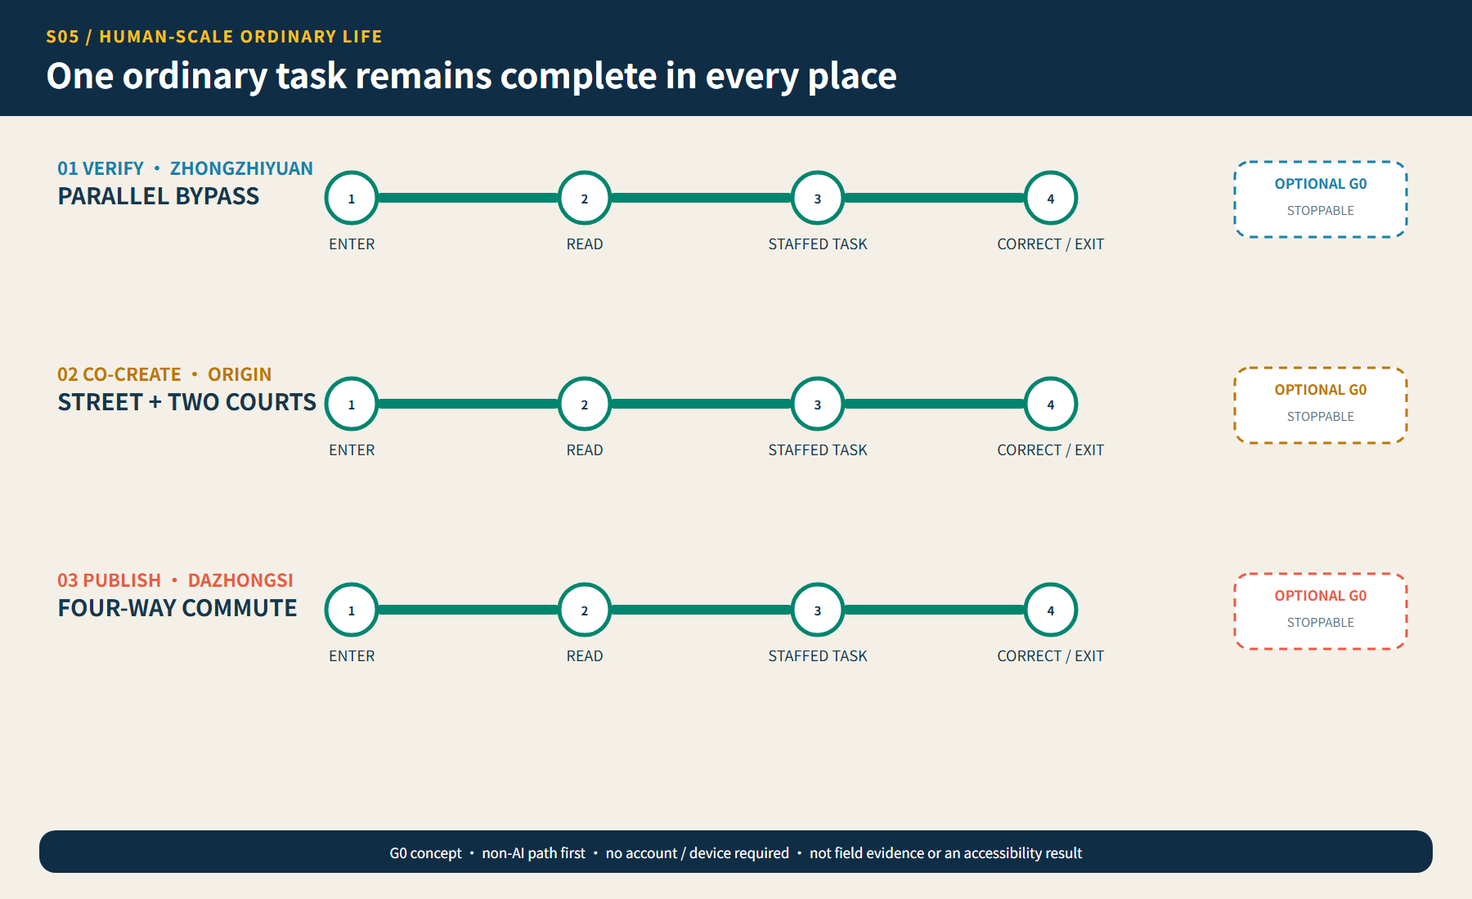
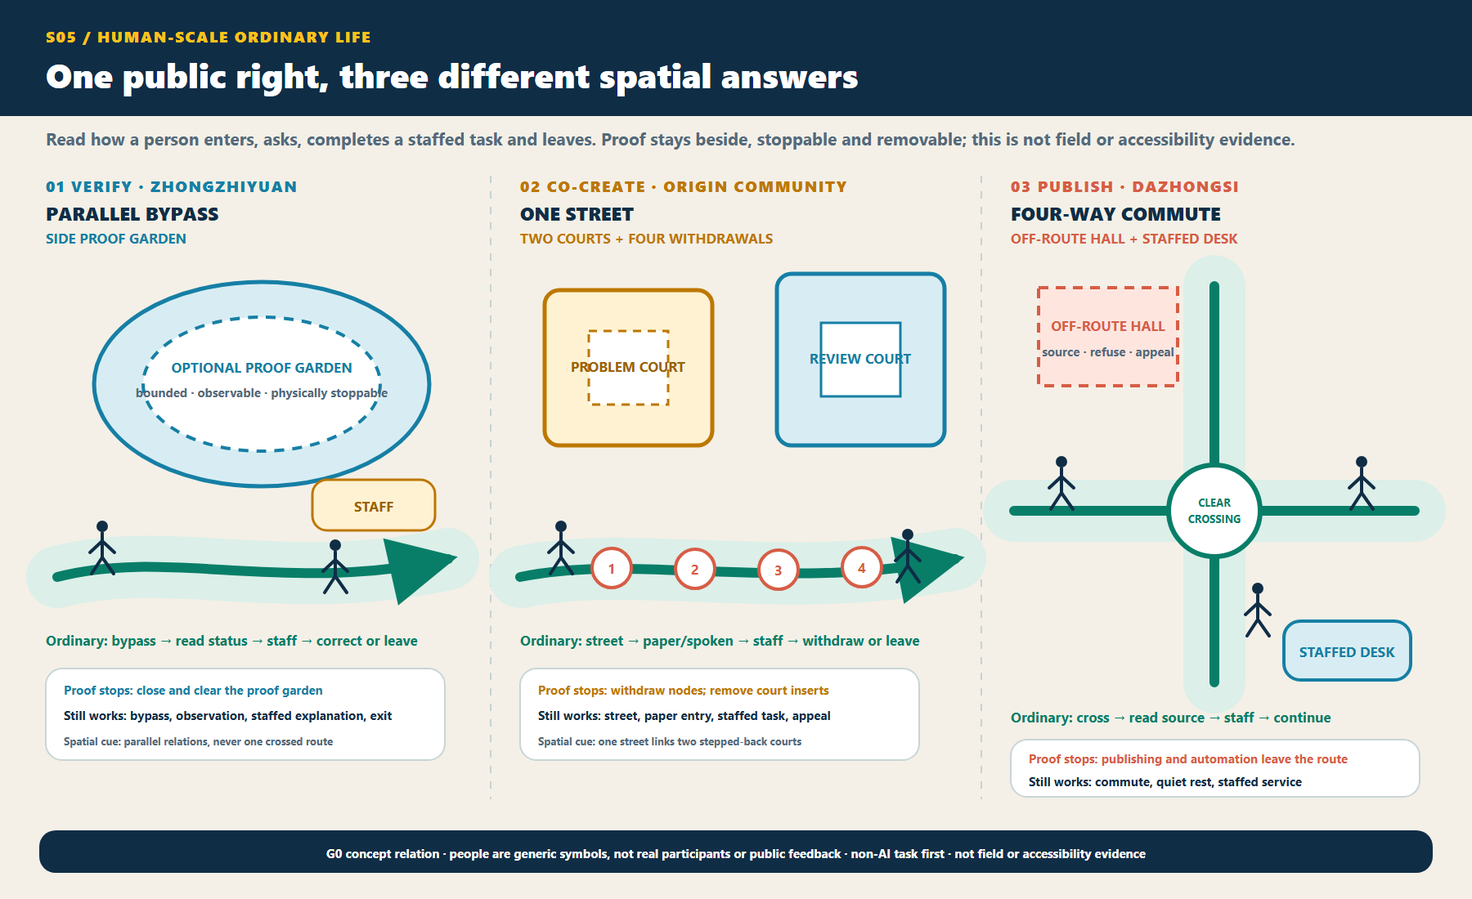
feat(submission): rebuild human-scale review surfaces

Changed region(s): [[0.0311, 0.0309, 0.9644, 0.8345], [0.2178, 0.9273, 0.7778, 0.9582], [0.6844, 0.8345, 0.9022, 0.8964]]

diff --git a/submissions/xyh202131/jingzhang-ai-pilgrimage-belt/visual/index.en.html b/submissions/xyh202131/jingzhang-ai-pilgrimage-belt/visual/index.en.html
@@ -2,22 +2,22 @@
 <html lang="en"><head><meta charset="utf-8"><meta name="viewport" content="width=device-width,initial-scale=1"><title>Twin-Track Jing-Zhang | Review edition</title>
 <style>
 :root{--navy:#102d46;--ink:#17364d;--teal:#00856f;--blue:#1681aa;--amber:#bd7700;--coral:#e85c42;--paper:#f4f0e7;--muted:#647786}
-*{box-sizing:border-box}html{scroll-behavior:smooth}body{margin:0;background:var(--paper);color:var(--ink);font-family:"JZ Offline CJK","Noto Sans SC","Noto Sans CJK SC","Source Han Sans SC",system-ui,sans-serif;line-height:1.55}
-a{color:inherit}.hero{min-height:76vh;padding:clamp(32px,7vw,110px);display:grid;align-content:center;background:var(--navy);color:#fff;position:relative;overflow:hidden}
+*{box-sizing:border-box}html{scroll-behavior:smooth;max-width:100%;overflow-x:hidden}body{margin:0;max-width:100%;overflow-x:hidden;background:var(--paper);color:var(--ink);font-family:"JZ Offline CJK","Noto Sans SC","Noto Sans CJK SC","Source Han Sans SC",system-ui,sans-serif;line-height:1.55}
+a{color:inherit}.skip{position:absolute;left:16px;top:-80px;z-index:30;background:#fff;color:var(--navy);padding:10px 14px;border:3px solid var(--teal);border-radius:8px}.skip:focus{top:12px}.hero{width:100%;min-height:52vh;padding:clamp(28px,5vw,78px);display:grid;grid-template-columns:minmax(0,1fr);align-content:center;background:var(--navy);color:#fff;position:relative;overflow:hidden}
 .hero:after{content:"";position:absolute;width:62vw;height:62vw;border:2px dashed #36a5c5;border-radius:50%;right:-22vw;top:-28vw;opacity:.5}
-.eyebrow{color:#ffc21a;letter-spacing:.18em;font-weight:800}h1{font-size:clamp(44px,7vw,108px);line-height:1.02;max-width:1100px;margin:.25em 0}.hero p{font-size:clamp(18px,2vw,30px);max-width:900px}
+.eyebrow{color:#ffc21a;letter-spacing:.18em;font-weight:800}h1{font-size:clamp(40px,5.6vw,84px);line-height:1.04;max-width:1100px;margin:.25em 0}.hero p{font-size:clamp(18px,2vw,28px);max-width:980px}
 .status{display:flex;flex-wrap:wrap;gap:10px;margin-top:24px}.status span{border:1px solid #7bb7c9;border-radius:999px;padding:8px 14px}
 nav{position:sticky;top:0;z-index:10;display:flex;overflow:auto;gap:8px;padding:12px clamp(18px,5vw,72px);background:#fffdf8ee;backdrop-filter:blur(12px);border-bottom:1px solid #ccd4d7}nav a{white-space:nowrap;text-decoration:none;padding:9px 14px;border-radius:999px}nav a:hover,nav a:focus{background:#dcefe9;outline:2px solid var(--teal)}
-main{max-width:1600px;margin:auto;padding:30px clamp(18px,4vw,64px) 90px}.panel{background:#fff;border:1px solid #c8d2d6;border-radius:26px;margin:28px 0;padding:clamp(18px,3vw,44px);box-shadow:0 14px 45px #102d4612}
+main{max-width:1600px;margin:auto;padding:30px clamp(18px,4vw,64px) 90px}main:focus{outline:none}.panel{background:#fff;border:1px solid #c8d2d6;border-radius:26px;margin:28px 0;padding:clamp(18px,3vw,44px);box-shadow:0 14px 45px #102d4612}
 .copy{display:flex;gap:18px;align-items:start}.step{font-size:20px;color:var(--coral);font-weight:800}h2{font-size:clamp(26px,3.5vw,52px);line-height:1.16;margin:0 0 24px}img{display:block;width:100%;height:auto;border-radius:16px;border:1px solid #cad3d7}
 .metrics{display:grid;grid-template-columns:repeat(3,1fr);gap:14px;margin:24px 0}.metric{background:#e8f3ef;border-radius:18px;padding:22px}.metric strong{display:block;font-size:clamp(25px,3vw,42px)}.coverage{display:flex;flex-wrap:wrap;gap:9px;padding:0;list-style:none}.coverage li{border-left:4px solid var(--teal);background:#edf4f2;padding:8px 12px;border-radius:5px}.links{display:flex;flex-wrap:wrap;gap:10px}.links a{padding:11px 15px;border:1px solid var(--blue);border-radius:12px;text-decoration:none;background:#fff}footer{background:var(--navy);color:#fff;padding:30px clamp(18px,5vw,72px)}
-@media(max-width:760px){.hero{min-height:62vh}.metrics{grid-template-columns:1fr}.panel{border-radius:16px}}
+@media(max-width:760px){.hero{min-height:auto;padding:42px 28px}.hero>div,.hero h1,.hero p{min-width:0;max-width:100%}.hero h1{font-size:clamp(36px,10vw,44px);overflow-wrap:anywhere}.hero p{font-size:18px;overflow-wrap:anywhere}.status{display:grid;grid-template-columns:minmax(0,1fr);min-width:0}.status span{min-width:0;max-width:100%;width:100%;white-space:normal;overflow-wrap:anywhere}.metrics{grid-template-columns:1fr}.panel{border-radius:16px}.copy{min-width:0}.copy h2{min-width:0;overflow-wrap:anywhere}}
 @media(prefers-reduced-motion:reduce){html{scroll-behavior:auto}*{animation:none!important;transition:none!important}}
 @media print{nav{display:none}.hero{min-height:auto;break-after:page}.panel{box-shadow:none;break-inside:avoid}}
-</style><link rel="stylesheet" href="assets/offline-cjk-font.css"></head><body>
-<header class="hero"><div><div class="eyebrow">TWIN-TRACK JING-ZHANG · R58.3</div><h1>Ordinary ground first. Verification steps aside.</h1><p>One concept · three non-interchangeable prototypes · one G0 handoff candidate</p><div class="status"><span>G0 concept · provisional rough geometry · not approved · no field test · zero real-world results</span><span>12 / 8 / 3 / 36</span><span>CC BY 4.0 · MIT · ODbL</span></div></div></header>
+</style><link rel="stylesheet" href="assets/offline-cjk-font.css"></head><body><a class="skip" href="#main">Skip to the core proposal</a>
+<header class="hero"><div><div class="eyebrow">TWIN-TRACK JING-ZHANG · R58.5</div><h1>Ordinary ground stays continuous. Verification stays beside it.</h1><p>One concept · three non-interchangeable prototypes · one G0 handoff candidate</p><div class="status"><span>G0 concept · provisional rough geometry · not approved · no field test · zero real-world results</span><span>12 scenes · 8 projects · 3 key areas · 36 conceptual units</span><span>Contributor content CC BY 4.0 · code MIT · OSM derivatives ODbL · fonts OFL · package-wide reuse remains gated</span></div></div></header>
 <nav aria-label="Primary navigation"><a href="#s1">Decision</a><a href="#s2">Three places</a><a href="#s3">Four states</a><a href="#s4">Ordinary life</a><a href="#s5">Handoff</a><a href="#s6">Evidence</a></nav>
-<main><section id="s1" class="panel"><div class="copy"><span class="step">01</span><h2>30 seconds: the spatial decision</h2></div><img src="../assets/figures/site-overview.en.png" alt="30 seconds: the spatial decision"></section><section id="s2" class="panel"><div class="copy"><span class="step">02</span><h2>Three places cannot exchange answers</h2></div><img src="../assets/figures/key-areas.en.png" alt="Three places cannot exchange answers"></section><section id="s3" class="panel"><div class="copy"><span class="step">03</span><h2>3 minutes: ordinary - verify - fault - recover</h2></div><img src="../assets/figures/four-state-journey.en.png" alt="3 minutes: ordinary - verify - fault - recover"></section><section id="s4" class="panel"><div class="copy"><span class="step">04</span><h2>One complete non-AI task in every state</h2></div><img src="../assets/figures/ordinary-life-journey.en.png" alt="One complete non-AI task in every state"></section><section id="s5" class="panel"><div class="copy"><span class="step">05</span><h2>One pre-G1 review candidate, still NO-GO</h2></div><img src="../assets/figures/review-professional-handoff.en.png" alt="One pre-G1 review candidate, still NO-GO"></section>
+<main id="main" tabindex="-1"><section id="s1" class="panel"><div class="copy"><span class="step">01</span><h2>30 seconds: the spatial decision</h2></div><img src="../assets/figures/site-overview.en.png" alt="One continuous ordinary ground links Zhongzhiyuan's parallel bypass, Origin Community's street and courts, and Dazhongsi's four-way commute. Proof, staffed handoff and the failure siding stay beside the ordinary route. This is a provisional G0 relationship diagram, not a precise masterplan."></section><section id="s2" class="panel"><div class="copy"><span class="step">02</span><h2>Three places cannot exchange answers</h2></div><img src="../assets/figures/key-areas.en.png" alt="Three plan prototypes: Zhongzhiyuan keeps a parallel bypass and side proof garden; Origin Community links two stepped-back courts with one resident street and four withdrawals; Dazhongsi keeps the commute centre clear and places the hall and staffed desk off-route."></section><section id="s3" class="panel"><div class="copy"><span class="step">03</span><h2>3 minutes: ordinary - verify - fault - recover</h2></div><img src="../assets/figures/four-state-journey.en.png" alt="The four states change only the optional proof overlay: the ordinary task works first; proof appears within limits; fault stops the overlay while the ordinary task continues; recovery returns ordinary ground before recheck and is not authorization, approval, restart or G1."></section><section id="s4" class="panel"><div class="copy"><span class="step">04</span><h2>One public right, three different spatial answers</h2></div><img src="../assets/figures/ordinary-life-journey.en.png" alt="Three human-scale ordinary journeys: use a parallel bypass and staffed handoff at Zhongzhiyuan; use a resident street and paper or spoken service at Origin Community; keep the four-way commute and correct through an off-route staffed desk at Dazhongsi. People are generic symbols, not real participants or public feedback."></section><section id="s5" class="panel"><div class="copy"><span class="step">05</span><h2>One pre-G1 review candidate, still NO-GO</h2></div><img src="../assets/figures/review-professional-handoff.en.png" alt="The sole JZ-05 times SCENE-011 times T-02 candidate has five bounded questions and a G0 synthetic replay. Real H01-H07 responsibility, scope, baseline, data, recovery, parity and independent retest remain unaccepted, so the candidate stays G0 and NO-GO."></section>
 <section id="s6" class="panel"><div class="copy"><span class="step">06</span><h2>15 minutes: trace claim, evidence, rights and veto</h2></div><p>Geometry and metrics remain frozen. The sole candidate now has seven H01-H07 closure conditions and eight D01-D08 material records, while real attachments, acceptances, approvals, field results and independent retests remain zero; the 10/10 synthetic replay is not service accuracy.</p>
 <div class="metrics"><div class="metric"><span>Provisional site model</span><strong data-metric="site_area_sqm" data-value="11412825.385554">11.41 km²</strong></div><div class="metric"><span>Green ratio</span><strong data-metric="green_ratio" data-value="0.126157">12.62%</strong></div><div class="metric"><span>Public-space ratio</span><strong data-metric="public_space_ratio" data-value="0.012831">1.28%</strong></div></div>
 <h3>Task coverage</h3><ul class="coverage"><li>Overview map</li><li>Three-level scope</li><li>Key areas</li><li>Land-use zoning</li><li>Mobility</li><li>Blue-green public space</li><li>Architecture</li><li>Renewal projects</li><li>AI scenarios</li><li>Core metrics</li><li>Task coverage</li><li>Self-check status</li><li>Assumptions</li></ul>

diff --git a/submissions/xyh202131/jingzhang-ai-pilgrimage-belt/visual/index.html b/submissions/xyh202131/jingzhang-ai-pilgrimage-belt/visual/index.html
@@ -2,22 +2,22 @@
 <html lang="zh"><head><meta charset="utf-8"><meta name="viewport" content="width=device-width,initial-scale=1"><title>双轨京张｜终稿评审版</title>
 <style>
 :root{--navy:#102d46;--ink:#17364d;--teal:#00856f;--blue:#1681aa;--amber:#bd7700;--coral:#e85c42;--paper:#f4f0e7;--muted:#647786}
-*{box-sizing:border-box}html{scroll-behavior:smooth}body{margin:0;background:var(--paper);color:var(--ink);font-family:"JZ Offline CJK","Noto Sans SC","Noto Sans CJK SC","Source Han Sans SC",system-ui,sans-serif;line-height:1.55}
-a{color:inherit}.hero{min-height:76vh;padding:clamp(32px,7vw,110px);display:grid;align-content:center;background:var(--navy);color:#fff;position:relative;overflow:hidden}
+*{box-sizing:border-box}html{scroll-behavior:smooth;max-width:100%;overflow-x:hidden}body{margin:0;max-width:100%;overflow-x:hidden;background:var(--paper);color:var(--ink);font-family:"JZ Offline CJK","Noto Sans SC","Noto Sans CJK SC","Source Han Sans SC",system-ui,sans-serif;line-height:1.55}
+a{color:inherit}.skip{position:absolute;left:16px;top:-80px;z-index:30;background:#fff;color:var(--navy);padding:10px 14px;border:3px solid var(--teal);border-radius:8px}.skip:focus{top:12px}.hero{width:100%;min-height:52vh;padding:clamp(28px,5vw,78px);display:grid;grid-template-columns:minmax(0,1fr);align-content:center;background:var(--navy);color:#fff;position:relative;overflow:hidden}
 .hero:after{content:"";position:absolute;width:62vw;height:62vw;border:2px dashed #36a5c5;border-radius:50%;right:-22vw;top:-28vw;opacity:.5}
-.eyebrow{color:#ffc21a;letter-spacing:.18em;font-weight:800}h1{font-size:clamp(44px,7vw,108px);line-height:1.02;max-width:1100px;margin:.25em 0}.hero p{font-size:clamp(18px,2vw,30px);max-width:900px}
+.eyebrow{color:#ffc21a;letter-spacing:.18em;font-weight:800}h1{font-size:clamp(40px,5.6vw,84px);line-height:1.04;max-width:1100px;margin:.25em 0}.hero p{font-size:clamp(18px,2vw,28px);max-width:980px}
 .status{display:flex;flex-wrap:wrap;gap:10px;margin-top:24px}.status span{border:1px solid #7bb7c9;border-radius:999px;padding:8px 14px}
 nav{position:sticky;top:0;z-index:10;display:flex;overflow:auto;gap:8px;padding:12px clamp(18px,5vw,72px);background:#fffdf8ee;backdrop-filter:blur(12px);border-bottom:1px solid #ccd4d7}nav a{white-space:nowrap;text-decoration:none;padding:9px 14px;border-radius:999px}nav a:hover,nav a:focus{background:#dcefe9;outline:2px solid var(--teal)}
-main{max-width:1600px;margin:auto;padding:30px clamp(18px,4vw,64px) 90px}.panel{background:#fff;border:1px solid #c8d2d6;border-radius:26px;margin:28px 0;padding:clamp(18px,3vw,44px);box-shadow:0 14px 45px #102d4612}
+main{max-width:1600px;margin:auto;padding:30px clamp(18px,4vw,64px) 90px}main:focus{outline:none}.panel{background:#fff;border:1px solid #c8d2d6;border-radius:26px;margin:28px 0;padding:clamp(18px,3vw,44px);box-shadow:0 14px 45px #102d4612}
 .copy{display:flex;gap:18px;align-items:start}.step{font-size:20px;color:var(--coral);font-weight:800}h2{font-size:clamp(26px,3.5vw,52px);line-height:1.16;margin:0 0 24px}img{display:block;width:100%;height:auto;border-radius:16px;border:1px solid #cad3d7}
 .metrics{display:grid;grid-template-columns:repeat(3,1fr);gap:14px;margin:24px 0}.metric{background:#e8f3ef;border-radius:18px;padding:22px}.metric strong{display:block;font-size:clamp(25px,3vw,42px)}.coverage{display:flex;flex-wrap:wrap;gap:9px;padding:0;list-style:none}.coverage li{border-left:4px solid var(--teal);background:#edf4f2;padding:8px 12px;border-radius:5px}.links{display:flex;flex-wrap:wrap;gap:10px}.links a{padding:11px 15px;border:1px solid var(--blue);border-radius:12px;text-decoration:none;background:#fff}footer{background:var(--navy);color:#fff;padding:30px clamp(18px,5vw,72px)}
-@media(max-width:760px){.hero{min-height:62vh}.metrics{grid-template-columns:1fr}.panel{border-radius:16px}}
+@media(max-width:760px){.hero{min-height:auto;padding:42px 28px}.hero>div,.hero h1,.hero p{min-width:0;max-width:100%}.hero h1{font-size:clamp(36px,10vw,44px);overflow-wrap:anywhere}.hero p{font-size:18px;overflow-wrap:anywhere}.status{display:grid;grid-template-columns:minmax(0,1fr);min-width:0}.status span{min-width:0;max-width:100%;width:100%;white-space:normal;overflow-wrap:anywhere}.metrics{grid-template-columns:1fr}.panel{border-radius:16px}.copy{min-width:0}.copy h2{min-width:0;overflow-wrap:anywhere}}
 @media(prefers-reduced-motion:reduce){html{scroll-behavior:auto}*{animation:none!important;transition:none!important}}
 @media print{nav{display:none}.hero{min-height:auto;break-after:page}.panel{box-shadow:none;break-inside:avoid}}
-</style><link rel="stylesheet" href="assets/offline-cjk-font.css"></head><body>
-<header class="hero"><div><div class="eyebrow">TWIN-TRACK JING-ZHANG · R58.3</div><h1>普通地面先连续，验证退到旁侧。</h1><p>一个总纲 · 三种不可互换原型 · 一个 G0 专业交接候选</p><div class="status"><span>G0 概念 · 临时粗略几何 · 非批准 · 未现场测试 · 现实结果 0</span><span>12 / 8 / 3 / 36</span><span>CC BY 4.0 · MIT · ODbL</span></div></div></header>
+</style><link rel="stylesheet" href="assets/offline-cjk-font.css"></head><body><a class="skip" href="#main">跳到核心方案</a>
+<header class="hero"><div><div class="eyebrow">TWIN-TRACK JING-ZHANG · R58.5</div><h1>普通地面先连续，验证退到旁侧。</h1><p>一个总纲 · 三种不可互换原型 · 一个 G0 专业交接候选</p><div class="status"><span>G0 概念 · 临时粗略几何 · 非批准 · 未现场测试 · 现实结果 0</span><span>12 场景 · 8 项目 · 3 重点区 · 36 概念单元</span><span>投稿方内容 CC BY 4.0 · 代码 MIT · OSM 衍生层 ODbL · 字体 OFL · 整包复用仍受权利门约束</span></div></div></header>
 <nav aria-label="主导航"><a href="#s1">空间裁决</a><a href="#s2">三处原型</a><a href="#s3">四态旅程</a><a href="#s4">普通生活</a><a href="#s5">专业交接</a><a href="#s6">证据边界</a></nav>
-<main><section id="s1" class="panel"><div class="copy"><span class="step">01</span><h2>30 秒：先看空间裁决</h2></div><img src="../assets/figures/site-overview.png" alt="30 秒：先看空间裁决"></section><section id="s2" class="panel"><div class="copy"><span class="step">02</span><h2>三处不看标题也不能互换</h2></div><img src="../assets/figures/key-areas.png" alt="三处不看标题也不能互换"></section><section id="s3" class="panel"><div class="copy"><span class="step">03</span><h2>3 分钟：普通—验证—故障—恢复</h2></div><img src="../assets/figures/four-state-journey.png" alt="3 分钟：普通—验证—故障—恢复"></section><section id="s4" class="panel"><div class="copy"><span class="step">04</span><h2>所有状态下，非 AI 同任务都完整</h2></div><img src="../assets/figures/ordinary-life-journey.png" alt="所有状态下，非 AI 同任务都完整"></section><section id="s5" class="panel"><div class="copy"><span class="step">05</span><h2>只交一个 pre-G1 核验候选，仍是 NO-GO</h2></div><img src="../assets/figures/review-professional-handoff.png" alt="只交一个 pre-G1 核验候选，仍是 NO-GO"></section>
+<main id="main" tabindex="-1"><section id="s1" class="panel"><div class="copy"><span class="step">01</span><h2>30 秒：先看空间裁决</h2></div><img src="../assets/figures/site-overview.png" alt="一条连续普通地面串联众智园平行旁路、原点社区一街两院和大钟寺四向通勤；旁侧验证、人工交接与失败侧线不占用普通路径。G0 临时关系图，非精确总平。"></section><section id="s2" class="panel"><div class="copy"><span class="step">02</span><h2>三处不看标题也不能互换</h2></div><img src="../assets/figures/key-areas.png" alt="三处平面原型：众智园保留平行绕行并把证明庭置于旁侧；原点社区以居民街连接两座退后院落和四个撤回节点；大钟寺保持十字通勤中心净空并把信息厅与人工台放到路外。"></section><section id="s3" class="panel"><div class="copy"><span class="step">03</span><h2>3 分钟：普通—验证—故障—恢复</h2></div><img src="../assets/figures/four-state-journey.png" alt="四态序列只改变可选验证叠层：普通任务先成立；验证限域出现；故障停止叠层而普通任务继续；恢复先还普通地面再复核，不等于授权、批准、重启或 G1。"></section><section id="s4" class="panel"><div class="copy"><span class="step">04</span><h2>同一公共权利，不复制同一空间答案</h2></div><img src="../assets/figures/ordinary-life-journey.png" alt="三处人尺度普通生活：众智园沿平行旁路进入和找人工；原点社区沿一条居民街通过纸面或口述完成人工任务；大钟寺保持四向通勤并在路外人工台纠错。人物为通用图示，不是真实人员或公众反馈。"></section><section id="s5" class="panel"><div class="copy"><span class="step">05</span><h2>只交一个 pre-G1 核验候选，仍是 NO-GO</h2></div><img src="../assets/figures/review-professional-handoff.png" alt="唯一候选 JZ-05 乘 SCENE-011 乘 T-02 已完成五个有界问题和 G0 合成回放；H01 至 H07 的现实责任、范围、基线、数据、恢复、公共同权和独立复测均未接受，因此保持 G0 和 NO-GO。"></section>
 <section id="s6" class="panel"><div class="copy"><span class="step">06</span><h2>15 分钟：追到证据、权利与专业否决</h2></div><p>geometry 与 metrics 保持冻结。唯一候选已备齐 H01—H07 七项关闭条件与 D01—D08 八条材料记录，但真实附件、接受、批准、现场结果和独立复测仍为 0；10/10 合成回放不是服务准确率。</p>
 <div class="metrics"><div class="metric"><span>临时场地模型</span><strong data-metric="site_area_sqm" data-value="11412825.385554">11.41 km²</strong></div><div class="metric"><span>绿地比例</span><strong data-metric="green_ratio" data-value="0.126157">12.62%</strong></div><div class="metric"><span>公共空间比例</span><strong data-metric="public_space_ratio" data-value="0.012831">1.28%</strong></div></div>
 <h3>任务覆盖</h3><ul class="coverage"><li>总览地图</li><li>三层范围</li><li>重点区域</li><li>用地分区</li><li>交通慢行</li><li>蓝绿公共空间</li><li>建筑</li><li>更新项目</li><li>AI 场景</li><li>核心指标</li><li>任务覆盖</li><li>自检状态</li><li>假设</li></ul>

diff --git a/submissions/xyh202131/jingzhang-ai-pilgrimage-belt/report/proposal.en.html b/submissions/xyh202131/jingzhang-ai-pilgrimage-belt/report/proposal.en.html
@@ -4,7 +4,6 @@
 <meta charset="utf-8">
 <meta name="viewport" content="width=device-width, initial-scale=1">
 <title>Twin-Track Jing-Zhang — Continuous Civic Track and Intermittent Verification Track - proposal report</title>
-<link rel="stylesheet" href="../visual/assets/offline-cjk-font.css">
 <style>
 :root {
   --ink: #172033;
@@ -17,7 +16,7 @@
 * { box-sizing: border-box; }
 body {
   margin: 0;
-  font-family: "JZ Offline CJK", -apple-system, BlinkMacSystemFont, "PingFang SC", "Microsoft YaHei", "Noto Sans CJK SC", sans-serif;
+  font-family: -apple-system, BlinkMacSystemFont, "PingFang SC", "Microsoft YaHei", "Noto Sans CJK SC", sans-serif;
   color: var(--ink);
   background: var(--bg);
   line-height: 1.75;
@@ -114,6 +113,7 @@ code {
   h2 { font-size: 21px; }
 }
 </style>
+<link rel="stylesheet" href="../visual/assets/offline-cjk-font.css">
 </head>
 <body>
 <main>

diff --git a/submissions/xyh202131/jingzhang-ai-pilgrimage-belt/report/proposal.html b/submissions/xyh202131/jingzhang-ai-pilgrimage-belt/report/proposal.html
@@ -4,7 +4,6 @@
 <meta charset="utf-8">
 <meta name="viewport" content="width=device-width, initial-scale=1">
 <title>双轨京张——连续日常轨与间歇验证轨 - proposal report</title>
-<link rel="stylesheet" href="../visual/assets/offline-cjk-font.css">
 <style>
 :root {
   --ink: #172033;
@@ -17,7 +16,7 @@
 * { box-sizing: border-box; }
 body {
   margin: 0;
-  font-family: "JZ Offline CJK", -apple-system, BlinkMacSystemFont, "PingFang SC", "Microsoft YaHei", "Noto Sans CJK SC", sans-serif;
+  font-family: -apple-system, BlinkMacSystemFont, "PingFang SC", "Microsoft YaHei", "Noto Sans CJK SC", sans-serif;
   color: var(--ink);
   background: var(--bg);
   line-height: 1.75;
@@ -114,6 +113,7 @@ code {
   h2 { font-size: 21px; }
 }
 </style>
+<link rel="stylesheet" href="../visual/assets/offline-cjk-font.css">
 </head>
 <body>
 <main>

diff --git a/submissions/xyh202131/jingzhang-ai-pilgrimage-belt/proposal.en.md b/submissions/xyh202131/jingzhang-ai-pilgrimage-belt/proposal.en.md
@@ -5,8 +5,8 @@ language: "en"
 translation_of: "proposal.md"
 proposal_format_version: "2"
 bilingual_contract_version: "1"
-version: "58.3"
-iteration: "58.3"
+version: "58.5"
+iteration: "58.5"
 license: "CC-BY-4.0"
 summary: "Haidian's innovation density becomes public capability only when people can use, question and exit without accounts, devices or professional identity. Twin-Track Jing-Zhang keeps ordinary tasks continuous and G0 verification intermittent and stoppable; three distinct prototypes connect evidence, risk and professional handoff. Boundaries remain provisional; outcomes, approvals, field execution and accepted professional duties remain zero."
 tracks:

diff --git a/submissions/xyh202131/jingzhang-ai-pilgrimage-belt/proposal.md b/submissions/xyh202131/jingzhang-ai-pilgrimage-belt/proposal.md
@@ -5,8 +5,8 @@ language: "zh"
 translation_file: "proposal.en.md"
 proposal_format_version: "2"
 bilingual_contract_version: "1"
-version: "58.3"
-iteration: "58.3"
+version: "58.5"
+iteration: "58.5"
 license: "CC-BY-4.0"
 summary: "海淀的创新密度，只有在普通人无需账户、设备或专业身份也能使用、质疑和退出时，才会成为公共能力。双轨京张以连续日常轨保障普通任务，以间歇、可停止的 G0 验证轨承载概念测试；三种不可互换原型连接证据、风险与专业交接。边界仍为临时约束，现实结果、批准、现场执行和专业接责仍为 0。"
 tracks:
